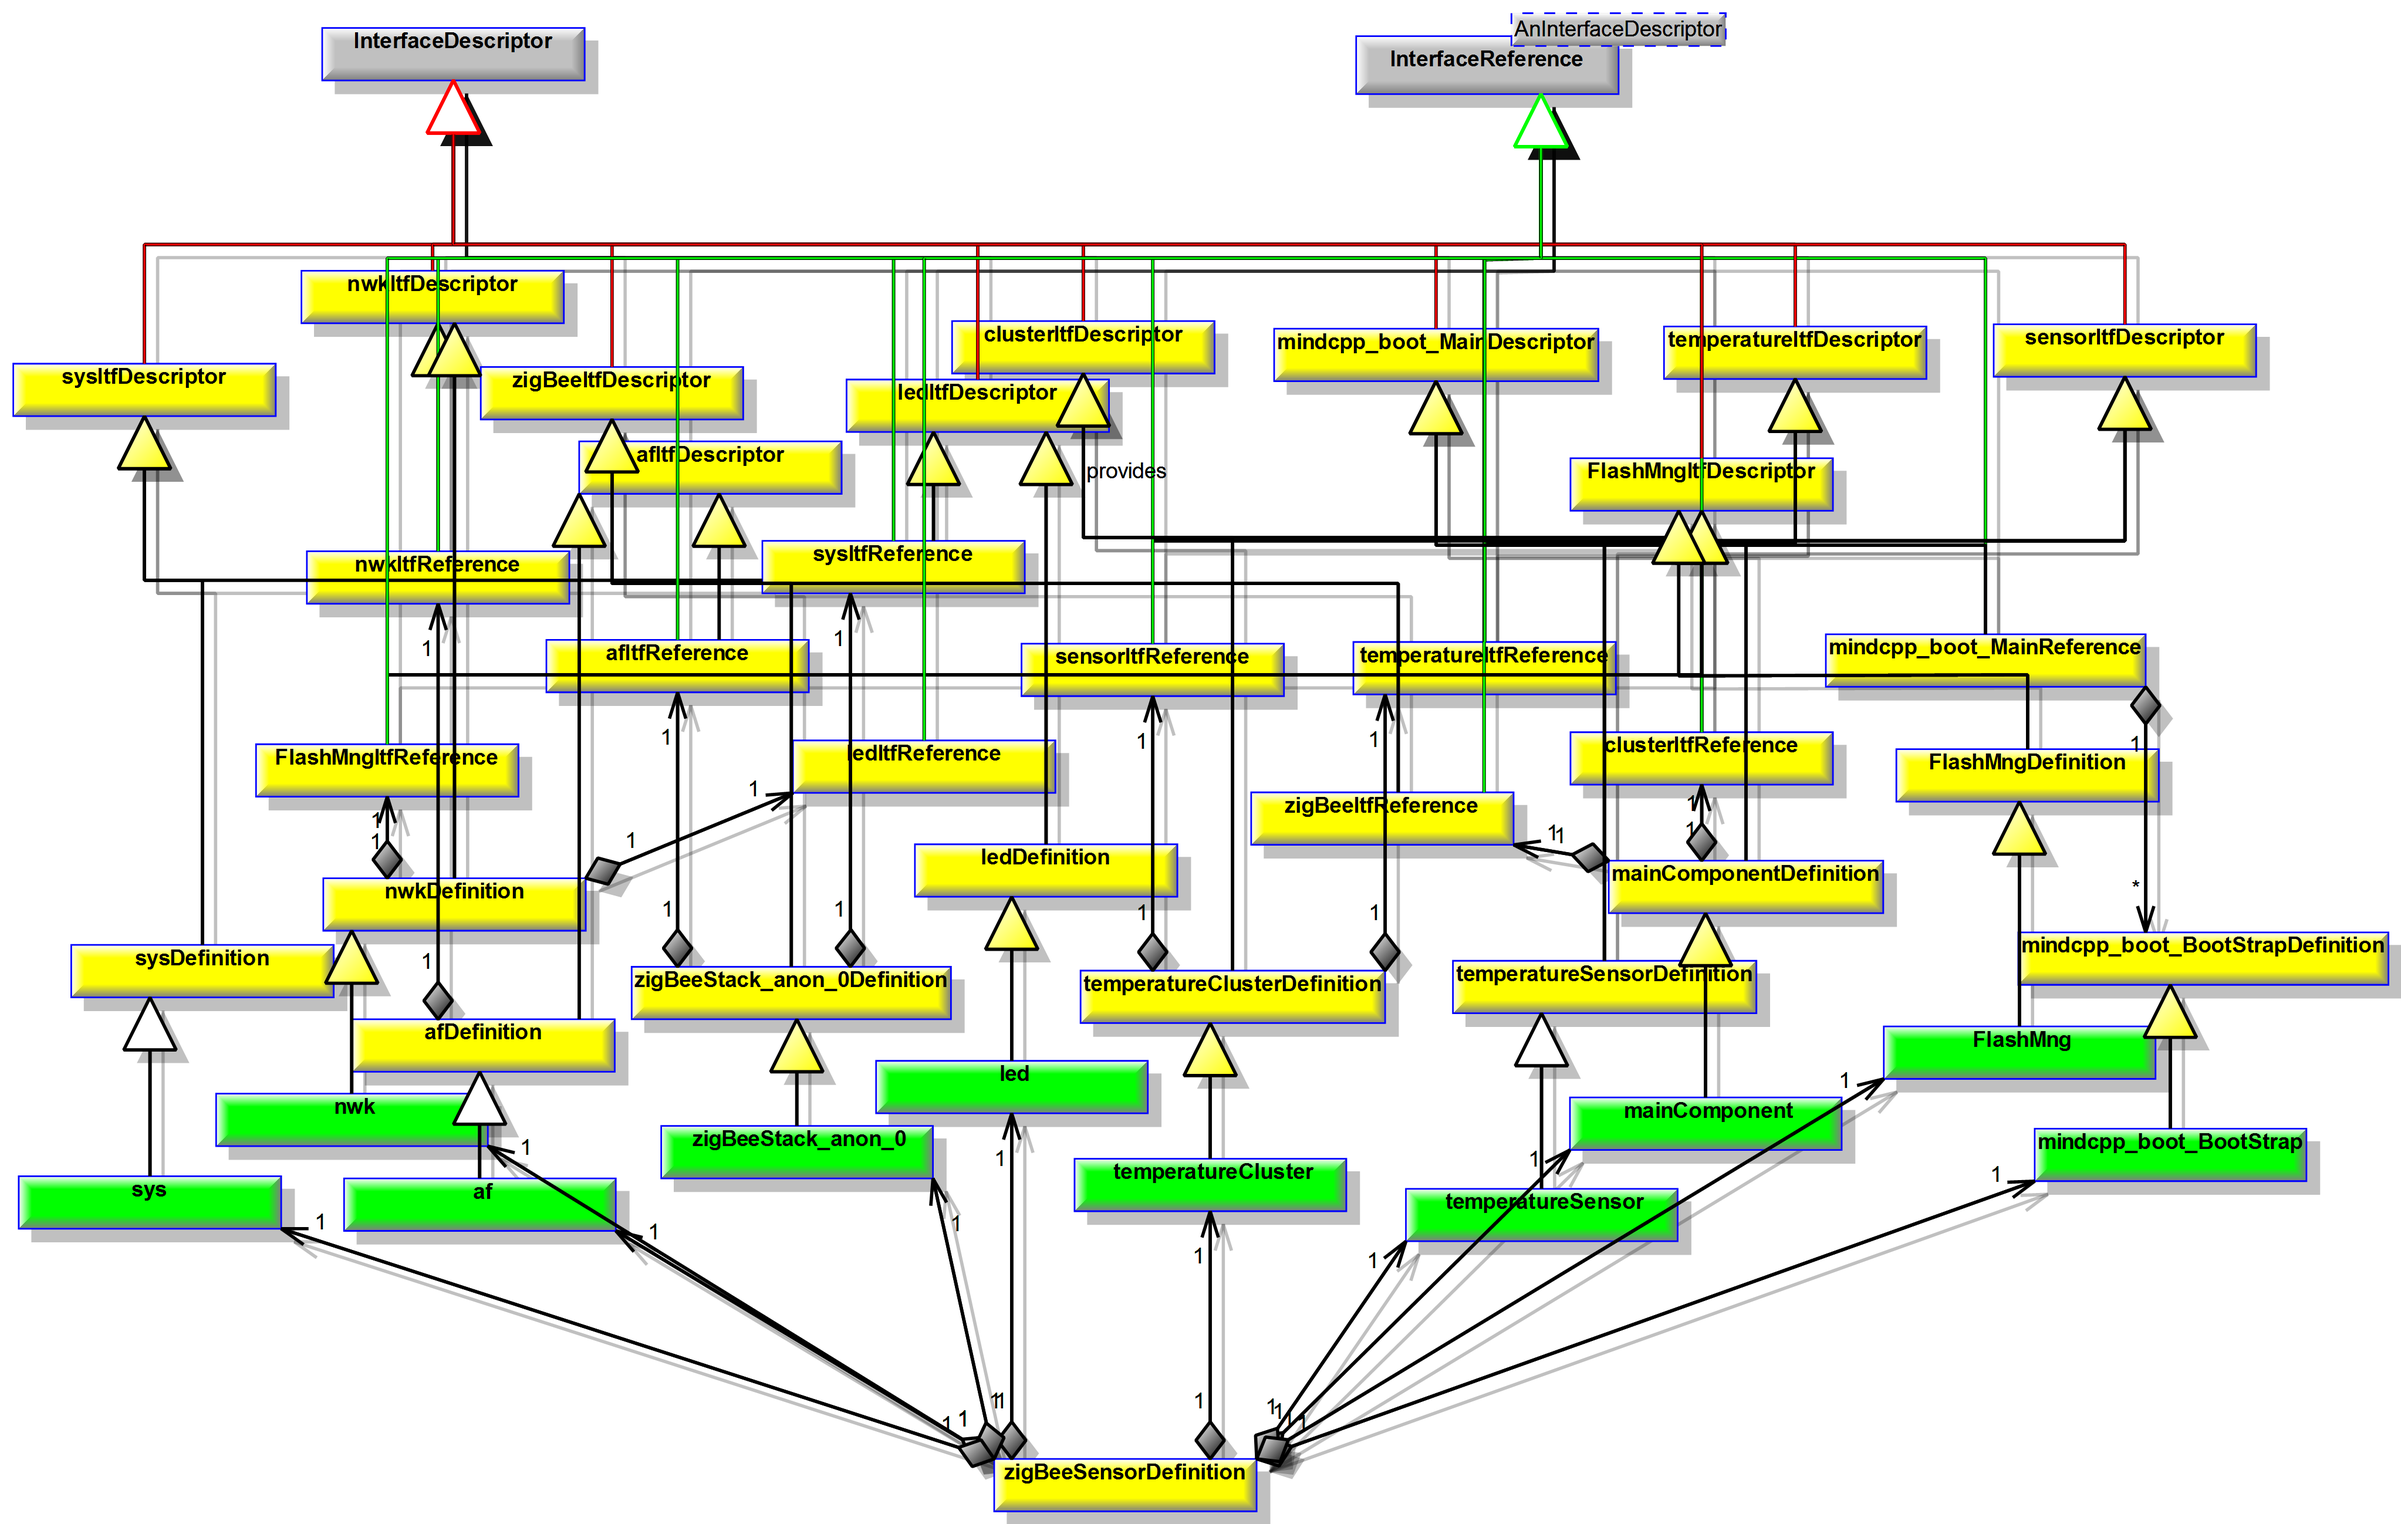
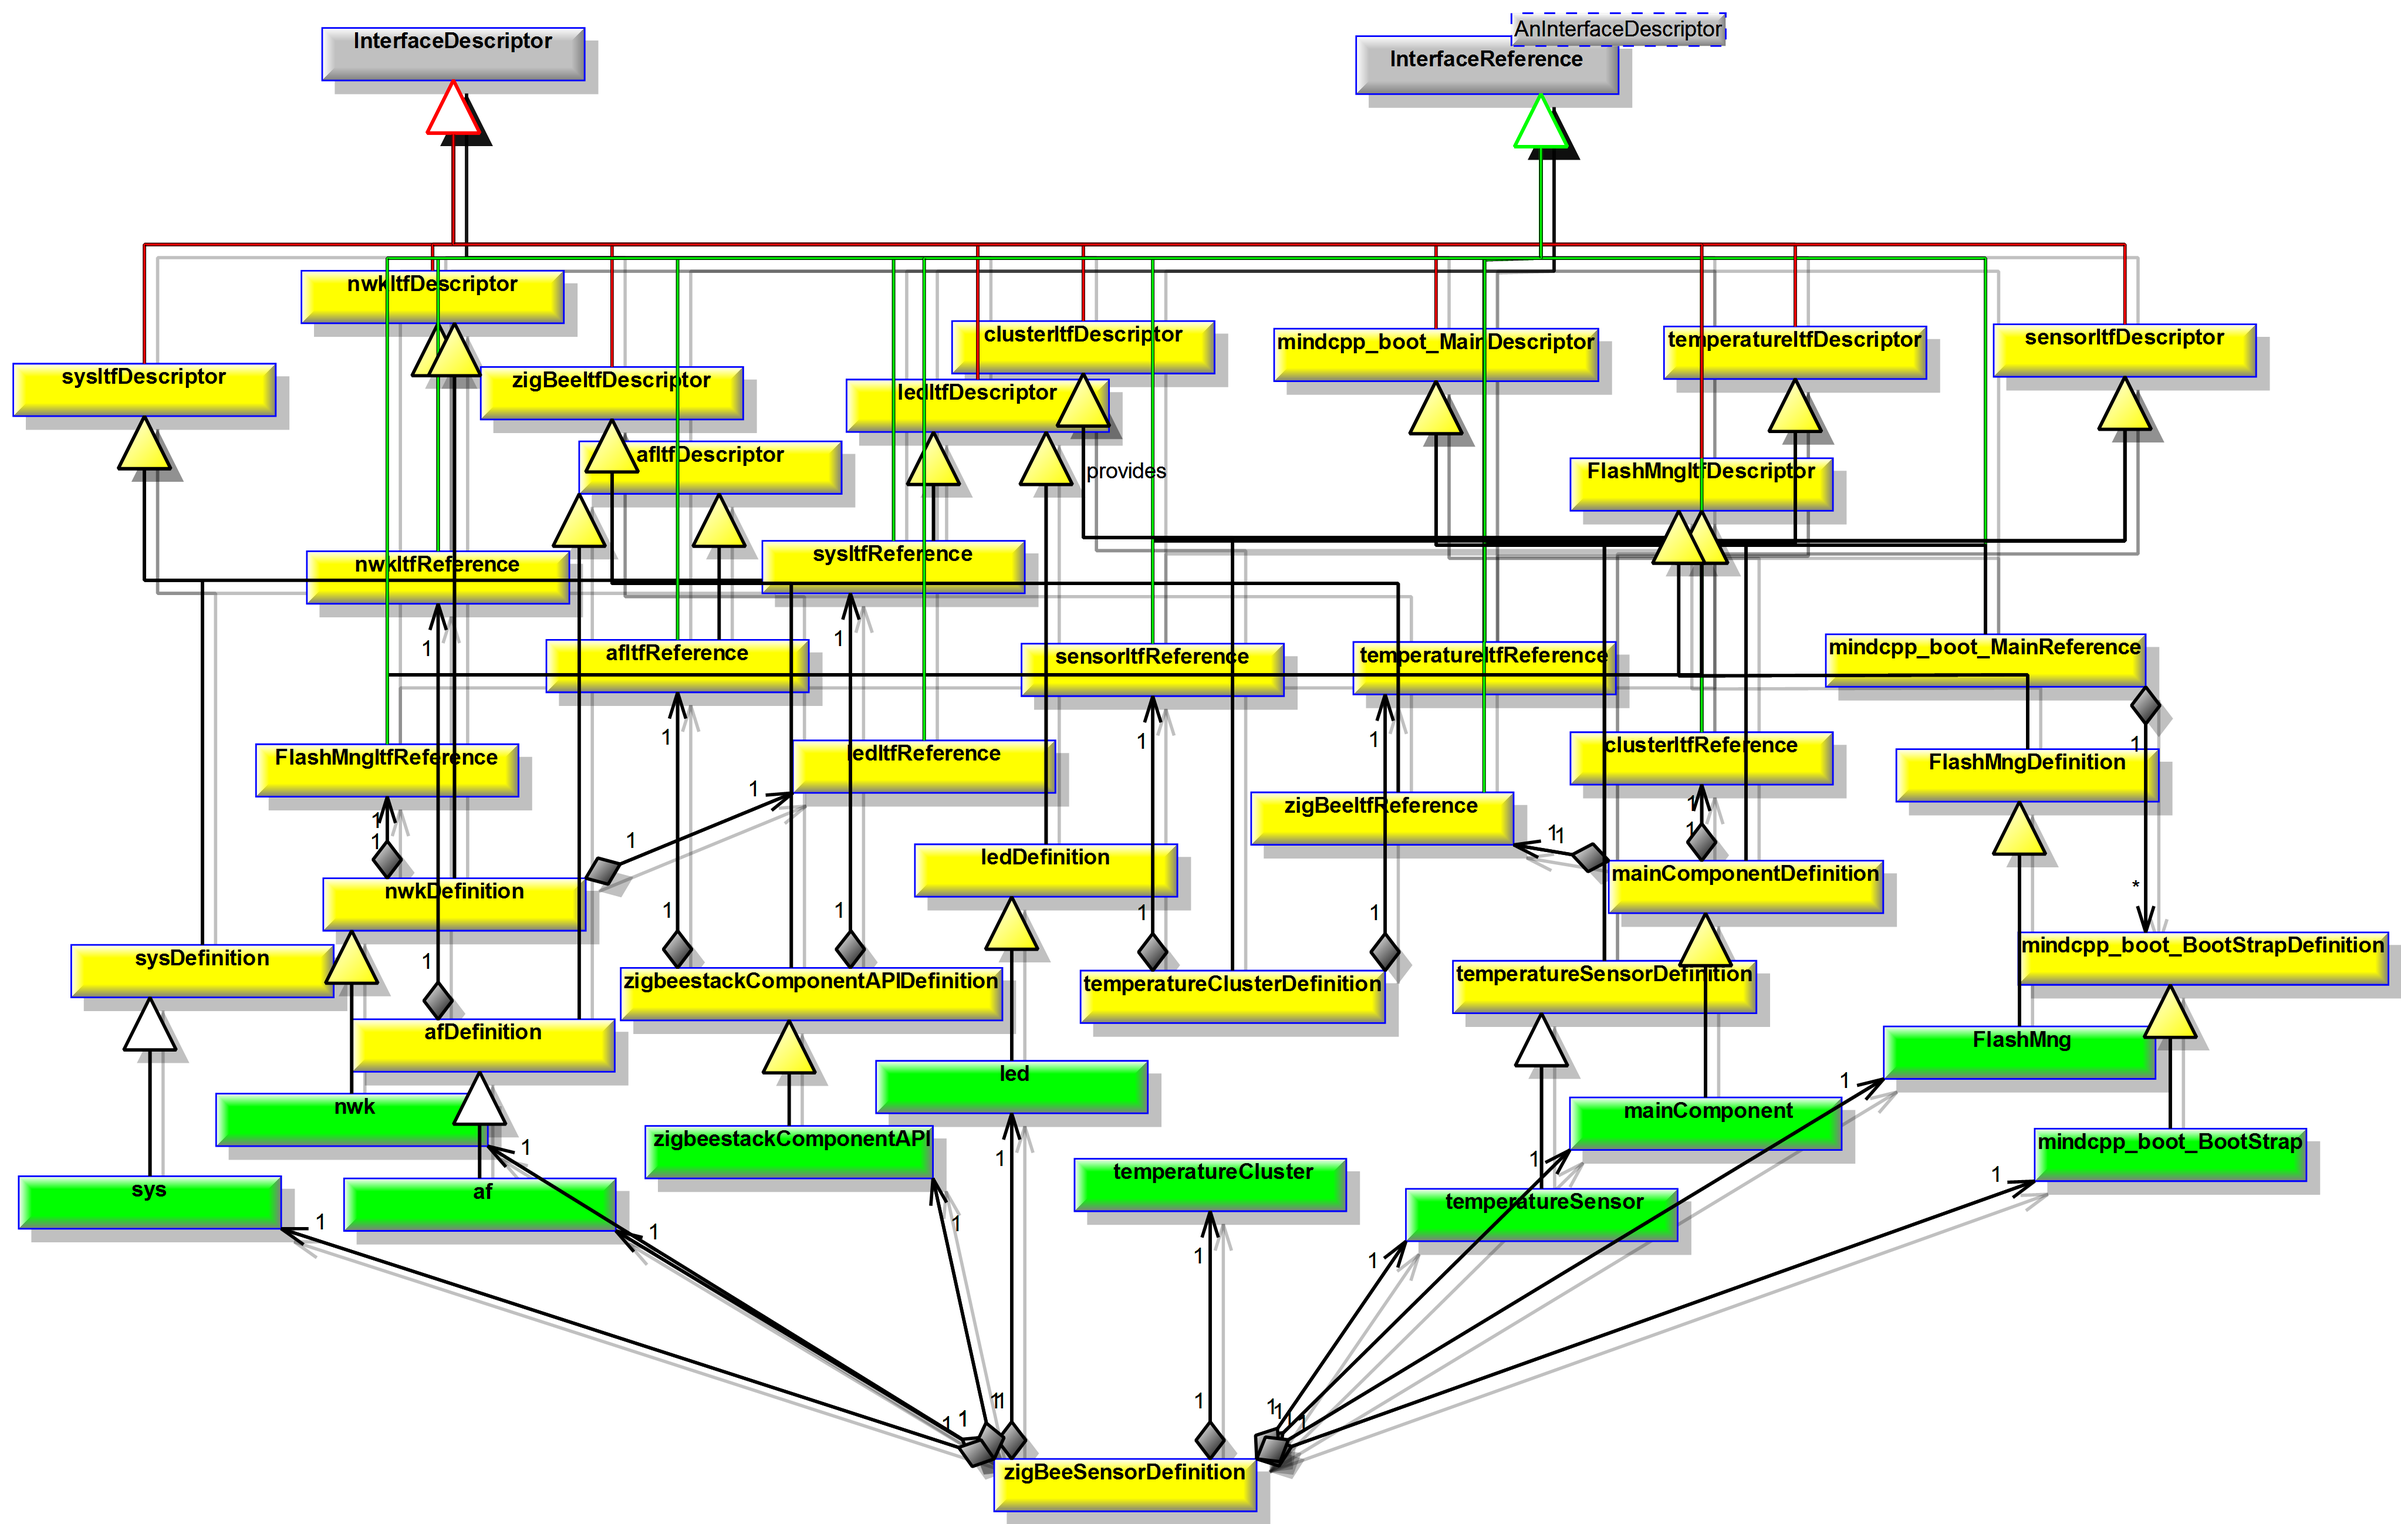
Remove anonymous definition in the ZigBeeSensor example. Fix Autoincrementer Eclipse project.

Changed region(s): [[0.2484, 0.6238, 0.4346, 0.7797], [0.4967, 0.655, 0.5277, 0.7174]]

diff --git a/mindcpp/src/assemble/resources/examples/cpp/ZigBeeSensor/GeneratedCode/zigbeestackComponentAPI.adl.hpp b/mindcpp/src/assemble/resources/examples/cpp/ZigBeeSensor/GeneratedCode/zigbeestackComponentAPI.adl.hpp
@@ -1,6 +1,6 @@
-/* Generated file: zigBeeStack_anon_0.adl.hpp */
-#ifndef __COMPONENT_ZIGBEESTACK_ANON_0_ADL_HPP
-#define __COMPONENT_ZIGBEESTACK_ANON_0_ADL_HPP
+/* Generated file: zigbeestackComponentAPI.adl.hpp */
+#ifndef __COMPONENT_ZIGBEESTACKCOMPONENTAPI_ADL_HPP
+#define __COMPONENT_ZIGBEESTACKCOMPONENTAPI_ADL_HPP
 
 #include "mindcommon.hpp"
 
@@ -11,12 +11,12 @@
 /* End including the interface descriptions */
 
 /* Start definition of component type */
-class zigBeeStack_anon_0Definition : public zigBeeItfDescriptor {
+class zigbeestackComponentAPIDefinition : public zigBeeItfDescriptor {
  
 public:
   // constructor and destructor
-  inline zigBeeStack_anon_0Definition(){};
-  inline ~zigBeeStack_anon_0Definition(){};
+  inline zigbeestackComponentAPIDefinition(){};
+  inline ~zigbeestackComponentAPIDefinition(){};
 public:
   // prototypes
   virtual void DataRequest(  unsigned char (* p0) ) = 0;
@@ -28,5 +28,5 @@ public:
 };
 /* End  definition of component type */
 
-#include "zigBeeStack_anon_0.hpp"
-#endif /* __COMPONENT_ZIGBEESTACK_ANON_0_ADL_HPP */
+#include "zigbeestackComponentAPI.hpp"
+#endif /* __COMPONENT_ZIGBEESTACKCOMPONENTAPI_ADL_HPP */

diff --git a/mindcpp/src/assemble/resources/examples/cpp/ZigBeeSensor/GeneratedCode/zigBeeSensor.adl.hpp b/mindcpp/src/assemble/resources/examples/cpp/ZigBeeSensor/GeneratedCode/zigBeeSensor.adl.hpp
@@ -14,7 +14,7 @@
 #include "af.adl.hpp"
 #include "nwk.adl.hpp"
 #include "sys.adl.hpp"
-#include "zigBeeStack_anon_0.adl.hpp"
+#include "zigbeestackComponentAPI.adl.hpp"
 /* End including the sub-component descriptions */
 
 /* Start definition of component type */
@@ -30,7 +30,7 @@ public:
   af _mind_zigBeeStackInstance_afInstance;
   nwk _mind_zigBeeStackInstance_nwkInstance;
   sys _mind_zigBeeStackInstance_sysInstance;
-  zigBeeStack_anon_0 _mind_zigBeeStackInstance_zigbeestackAPI;
+  zigbeestackComponentAPI _mind_zigBeeStackInstance_zigbeestackAPI;
 
 public:
   // bindings initialization between sub-components

diff --git a/mindcpp/src/assemble/resources/examples/cpp/ZigBeeSensor/GeneratedCode/zigBeeSensor_zigbeestackComponentAPI_instances.cpp b/mindcpp/src/assemble/resources/examples/cpp/ZigBeeSensor/GeneratedCode/zigBeeSensor_zigbeestackComponentAPI_instances.cpp
@@ -1,6 +1,6 @@
-/* Generated file: composite<zigBeeSensor>_zigBeeStack_anon_0_instances.cpp */
+/* Generated file: composite<zigBeeSensor>_zigbeestackComponentAPI_instances.cpp */
 
-#include "zigBeeStack_anon_0.adl.hpp"
+#include "zigbeestackComponentAPI.adl.hpp"
 #include "zigBeeSensor.adl.hpp"
 
 /* Need topLevel for initialization of the singleton reference */
